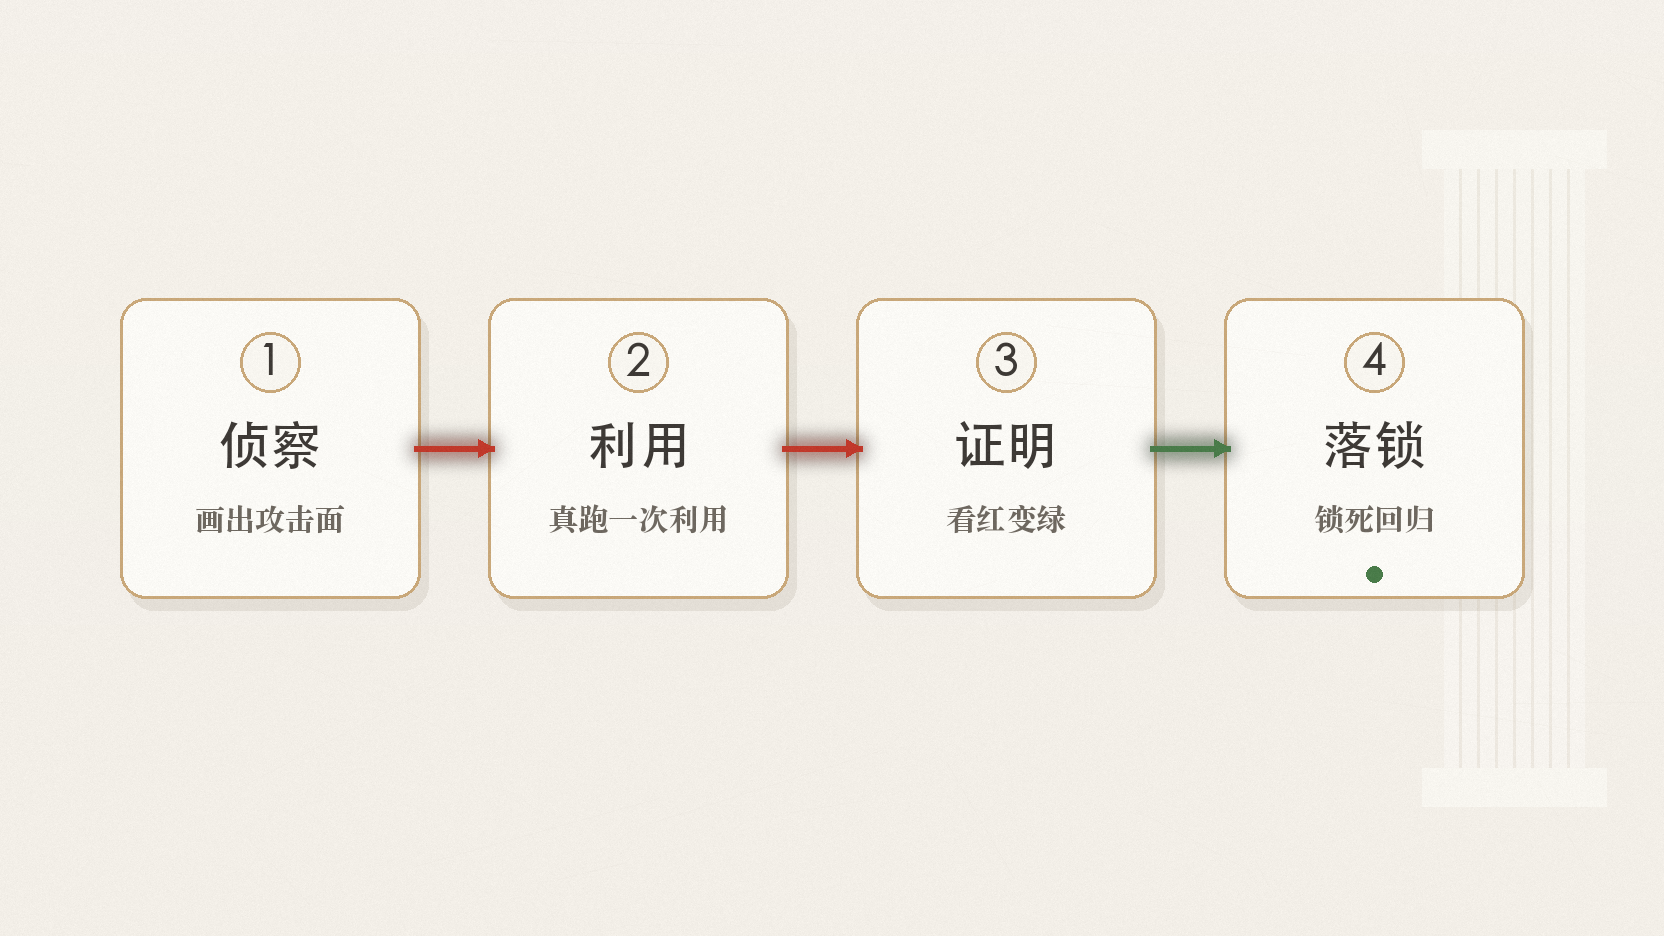
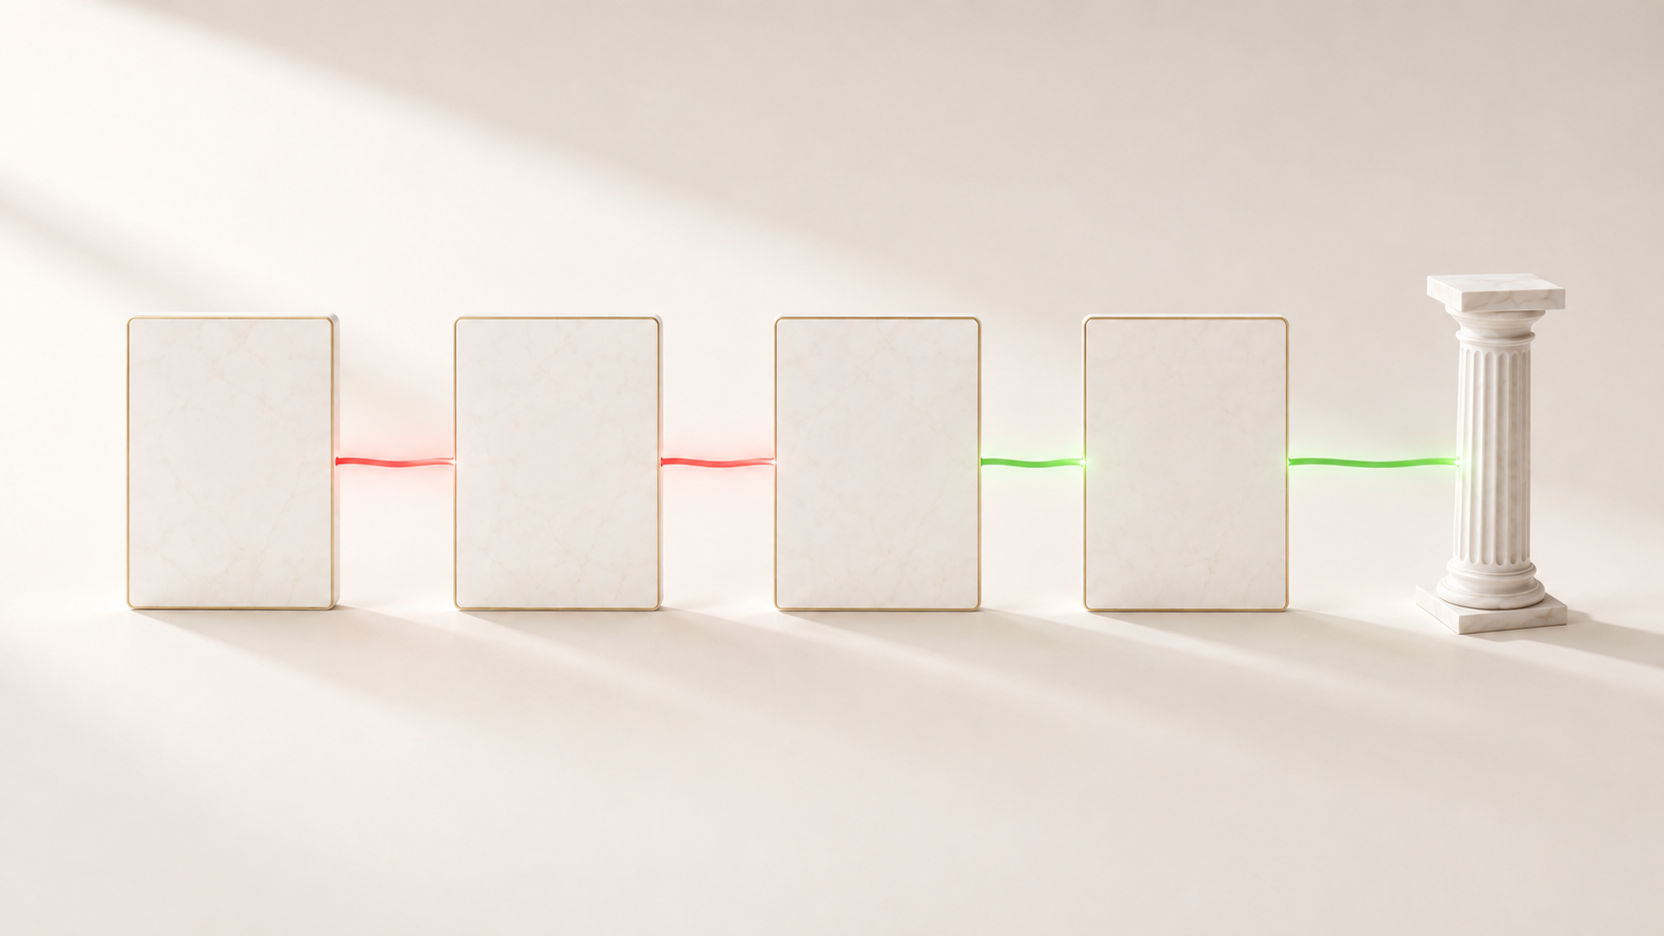
fix: marble Pantheon workflow scheme + four marble stage scenes (recon/exploit/prove/lock) in README

diff --git a/README.ru.md b/README.ru.md
@@ -57,7 +57,7 @@ Arez так не умеет. Находка настоящая только ко
 
 <!-- workflow-diagram:start -->
 
-<p align="center"><img src="docs/assets/pantheon/takt-ru.png" alt="Четыре мраморные плиты в ряд с надписями разведка, проба, доказать, замок, связанные красной нитью, которая зеленеет к последней плите, у каннелированной колонны" width="100%"></p>
+<p align="center"><img src="docs/assets/pantheon/takt-ru.png" alt="Четыре белые мраморные плиты в ряд с золотой окантовкой, связанные светящейся нитью: красная на первых трех и зеленеющая к последней, рядом каннелированная мраморная колонна" width="100%"></p>
 
 <!-- workflow-diagram:end -->
 
@@ -72,11 +72,15 @@ Arez так не умеет. Находка настоящая только ко
 
 Первая стадия читает цель. Она находит, какие эндпойнты отвечают, где входит ввод и что агенту разрешено трогать. Пока ничего не атакуют. Поверхность, которую не поднял ни один сканер, честно сбрасывают, а не превращают в заявку.
 
+<p align="center"><img src="docs/assets/pantheon/stage-recon.png" alt="Этап 1 конвейера Arez: разметить атакующую поверхность, широкая мраморная сцена Pantheon" width="100%"></p>
+
 **Что получится:** карта границ доверия и точек ввода, готовая для стадии эксплойта.
 
 ### Шаг 2: Запустить эксплойт
 
 Арес запускает настоящий эксплойт против цели. Он идет на 127.0.0.1, под своей песочницей. Обратно приходит код выхода, а не абзац. Заявку «теоретически атакующий мог бы» отклоняют. Эксплойт, который не запускается, это не находка.
+
+<p align="center"><img src="docs/assets/pantheon/stage-exploit.png" alt="Этап 2 конвейера Arez: запустить эксплойт, широкая мраморная сцена Pantheon" width="100%"></p>
 
 **Что получится:** выполненный эксплойт с реальным кодом выхода либо честный сброс.
 
@@ -84,11 +88,15 @@ Arez так не умеет. Находка настоящая только ко
 
 Доказательство это не слово агента. Отдельный координатор гоняет эксплойт-тест на не-фиксном дереве и видит провал. Потом на фиксном и видит проход. Красный до, зеленый после: вот доказательство. Тест, зеленый еще до фикса, полый, и его выбрасывают.
 
+<p align="center"><img src="docs/assets/pantheon/stage-prove.png" alt="Этап 3 конвейера Arez: доказать red-to-green, широкая мраморная сцена Pantheon" width="100%"></p>
+
 **Что получится:** наблюденный red-to-green, судимый по коду выхода вне досягаемости агента.
 
 ### Шаг 4: Запереть регрессию
 
 Тест, доказавший дыру, становится вечной регрессией. Каждый следующий прогон краснеет в ту секунду, когда изъян вернется. Постура крепнет храповиком со временем. Заново это не пересканируется. Вот что отличает Arez от сканера, который отдал отчет и забыл.
+
+<p align="center"><img src="docs/assets/pantheon/stage-lock.png" alt="Этап 4 конвейера Arez: запереть регрессию, широкая мраморная сцена Pantheon" width="100%"></p>
 
 **Что получится:** вечный тест, красный на изъяне навсегда, живущий в твоем гейте.
 

diff --git a/README.md b/README.md
@@ -57,7 +57,7 @@ A campaign moves through four stages. Each hands the next something it can check
 
 <!-- workflow-diagram:start -->
 
-<p align="center"><img src="docs/assets/pantheon/takt-en.png" alt="Four marble plates in a row engraved recon, exploit, prove, lock, linked by a red thread that turns green into the last plate, beside a fluted column" width="100%"></p>
+<p align="center"><img src="docs/assets/pantheon/takt-en.png" alt="Four white marble tablets in a row with gold trim, linked by a glowing thread that runs signal-red across the first three and turns green into the last, beside a fluted marble column" width="100%"></p>
 
 <!-- workflow-diagram:end -->
 
@@ -72,11 +72,15 @@ A campaign moves through four stages. Each hands the next something it can check
 
 The first stage reads the target. It finds which endpoints answer, where input enters, and what the agent may touch. Nothing is attacked yet. A surface no scanner flagged is dropped honestly, not turned into a claim.
 
+<p align="center"><img src="docs/assets/pantheon/stage-recon.png" alt="Arez workflow stage 1: map the attack surface, drawn as a wide Pantheon marble scene" width="100%"></p>
+
 **You get:** a map of trust boundaries and input points, ready for the exploit stage.
 
 ### Step 2: Run the exploit
 
 Ares runs the real exploit against the target. It runs on 127.0.0.1, under its own sandbox. What comes back is an exit code, not a paragraph. A claim of "theoretically an attacker could" is refused. An exploit that will not run is not a finding.
+
+<p align="center"><img src="docs/assets/pantheon/stage-exploit.png" alt="Arez workflow stage 2: run the exploit, drawn as a wide Pantheon marble scene" width="100%"></p>
 
 **You get:** an executed exploit with a real exit code, or an honest drop.
 
@@ -84,11 +88,15 @@ Ares runs the real exploit against the target. It runs on 127.0.0.1, under its o
 
 The proof is not the agent's word. A separate coordinator runs the exploit test on the unfixed tree and sees it fail. Then it runs on the fixed tree and sees it pass. Red before, green after: that is proof. A test already green before the fix is hollow, and thrown out.
 
+<p align="center"><img src="docs/assets/pantheon/stage-prove.png" alt="Arez workflow stage 3: prove red to green, drawn as a wide Pantheon marble scene" width="100%"></p>
+
 **You get:** an observed red-to-green, judged by exit code out of the agent's reach.
 
 ### Step 4: Lock the regression
 
 The test that proved the hole becomes a permanent regression. Every later run goes red the moment the flaw returns. The posture ratchets tighter over time. It is not rescanned from scratch. This is what separates Arez from a scanner that hands back a report and forgets.
+
+<p align="center"><img src="docs/assets/pantheon/stage-lock.png" alt="Arez workflow stage 4: lock the regression, drawn as a wide Pantheon marble scene" width="100%"></p>
 
 **You get:** a permanent test, red on the flaw forever, living in your own gate.
 
